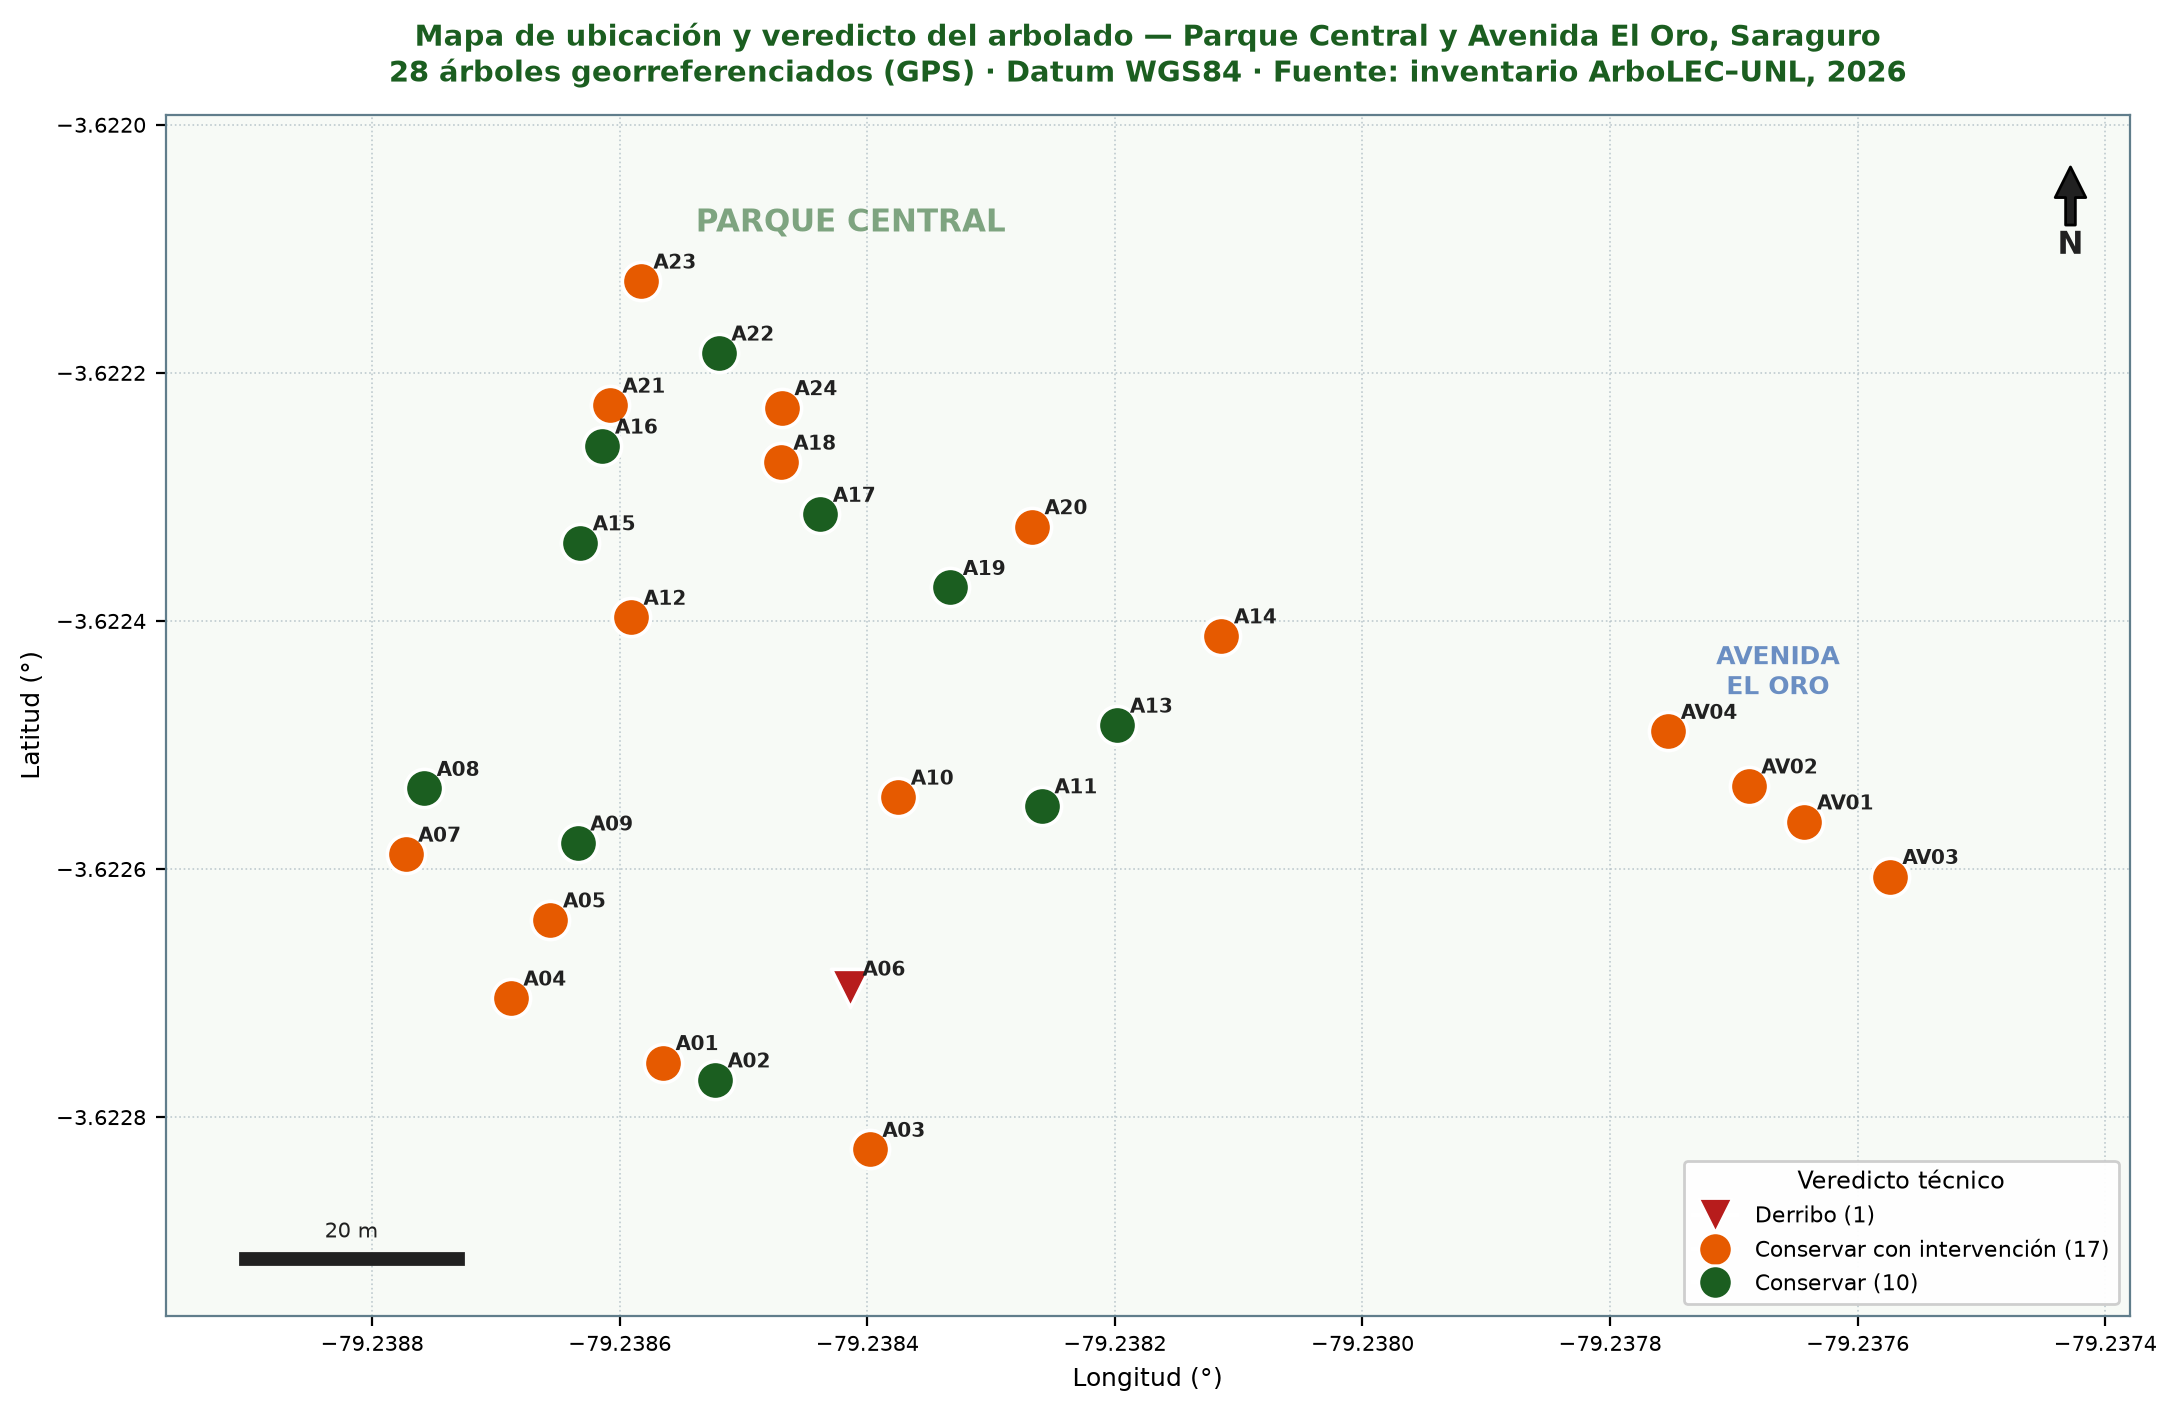
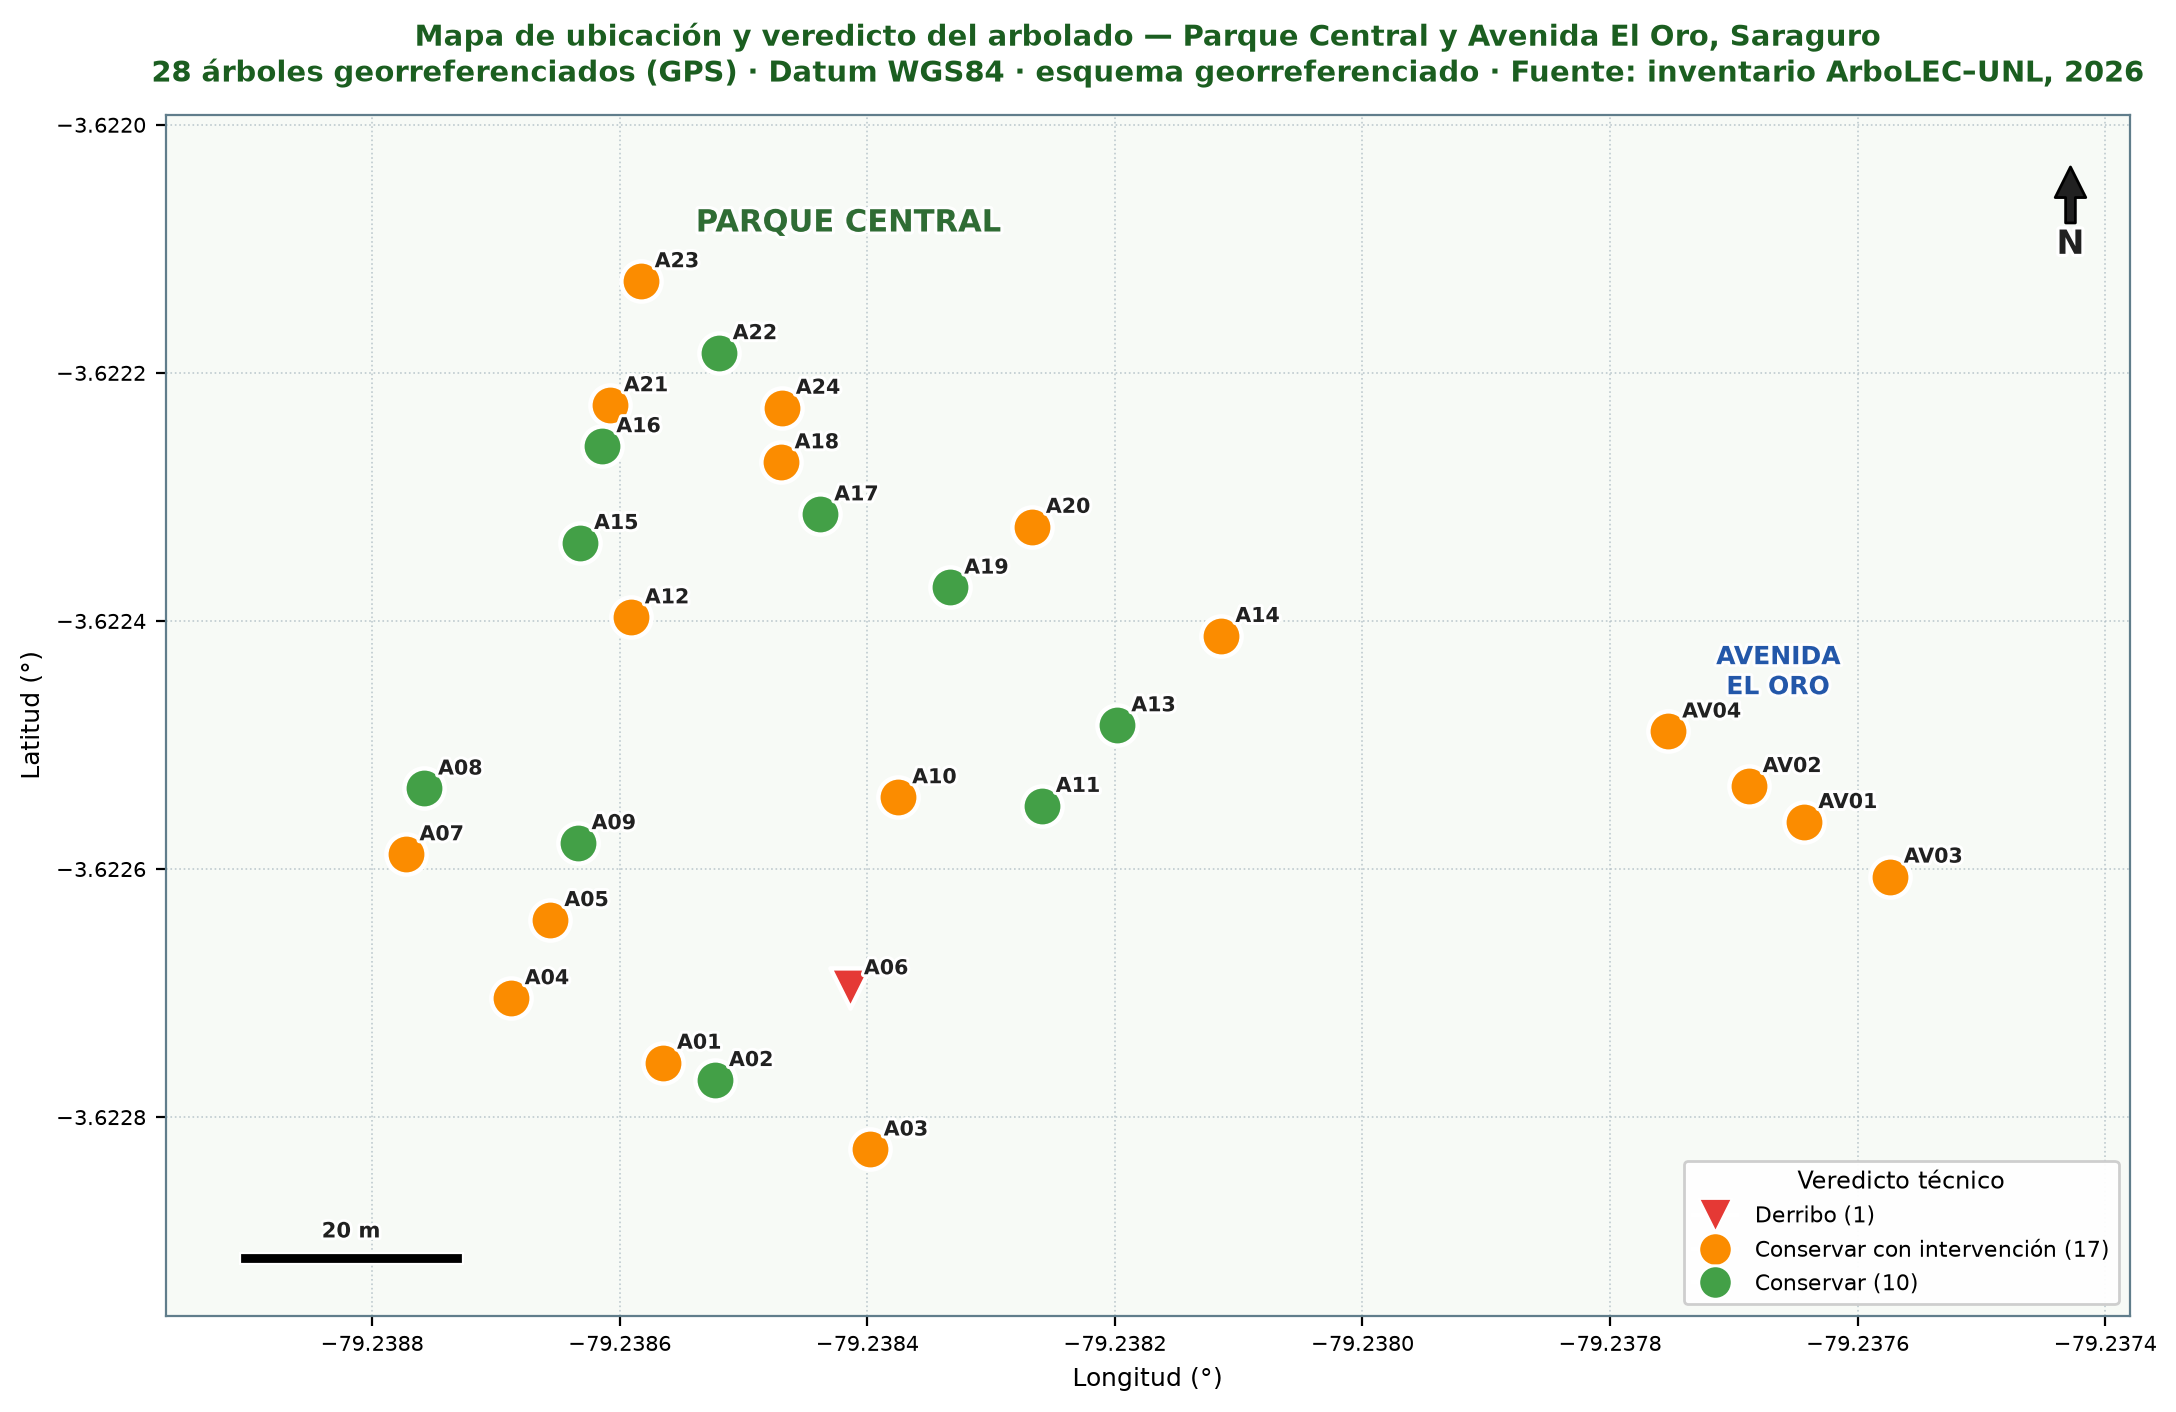
Mapa: soporte para ortofoto/imagen aérea de fondo georreferenciada
- generar_mapa.py detecta assets/ortofoto.* y la coloca de fondo con extent WGS84
- Etiquetas con halo y escala/norte legibles sobre imagen aérea
- Bounds opcionales via assets/ortofoto_bounds.txt; imprime el recuadro a cubrir

Claude-Session: https://claude.ai/code/session_01442Fz9ZmmTFnvPw1BsonXT

diff --git a/Estudio_Arbolado_Parque_Central_Saraguro/scripts/generar_mapa.py b/Estudio_Arbolado_Parque_Central_Saraguro/scripts/generar_mapa.py
@@ -1,88 +1,102 @@
 # -*- coding: utf-8 -*-
-"""Mapa profesional de ubicación de todos los árboles (Parque + Avenida)."""
+"""Mapa profesional de ubicación de todos los árboles (Parque + Avenida).
+Si existe assets/ortofoto.* se usa como imagen aérea de fondo (georreferenciada)."""
 import math
 import matplotlib
 matplotlib.use("Agg")
 import matplotlib.pyplot as plt
-from matplotlib.patches import FancyArrow, Rectangle
+import matplotlib.image as mpimg
+from matplotlib.patches import Rectangle
 from matplotlib.lines import Line2D
+from matplotlib.patheffects import withStroke
 import _data as D
 
-COL = {"DERRIBO":"#B71C1C", "CONSERVAR-INT":"#E65A00", "CONSERVAR":"#1B5E20"}
+COL = {"DERRIBO":"#E53935", "CONSERVAR-INT":"#FB8C00", "CONSERVAR":"#43A047"}
+HAS_IMG = D.ORTOFOTO is not None
 
 pts = [t for t in D.trees if t["lat"] and t["lon"]]
 lats = [float(t["lat"]) for t in pts]; lons = [float(t["lon"]) for t in pts]
 mlat = sum(lats)/len(lats)
 aspect = 1/math.cos(math.radians(mlat))
+dx = max(lons)-min(lons); dy = max(lats)-min(lats)
+padx = dx*0.12+0.00005; pady = dy*0.12+0.00005
+xmin, xmax = min(lons)-padx, max(lons)+padx
+ymin, ymax = min(lats)-pady, max(lats)+pady
 
 fig, ax = plt.subplots(figsize=(11, 8.5), dpi=200)
 fig.patch.set_facecolor("white")
-ax.set_facecolor("#F7FAF6")
+ax.set_xlim(xmin, xmax); ax.set_ylim(ymin, ymax); ax.set_aspect(aspect)
 
-# puntos por categoría
+# ---- fondo: ortofoto o color plano ----
+if HAS_IMG:
+    img = mpimg.imread(D.ORTOFOTO)
+    ext = D.ORTOFOTO_BOUNDS if D.ORTOFOTO_BOUNDS else [xmin, ymin, xmax, ymax]
+    # ext viene como [min_lon,min_lat,max_lon,max_lat] -> extent=[left,right,bottom,top]
+    extent = [ext[0], ext[2], ext[1], ext[3]]
+    ax.imshow(img, extent=extent, origin="upper", zorder=0, aspect=aspect, interpolation="lanczos")
+    grid_col = "#FFFFFF"; grid_alpha = 0.35; halo = "black"; txt_col = "white"
+else:
+    ax.set_facecolor("#F7FAF6")
+    grid_col = "#B0BEC5"; grid_alpha = 0.8; halo = "white"; txt_col = "#212121"
+
+# ---- puntos ----
 for cat in ["CONSERVAR","CONSERVAR-INT","DERRIBO"]:
     xs = [float(t["lon"]) for t in pts if t["cat"]==cat]
     ys = [float(t["lat"]) for t in pts if t["cat"]==cat]
-    ax.scatter(xs, ys, s=190, c=COL[cat], edgecolors="white", linewidths=1.3, zorder=5,
+    ax.scatter(xs, ys, s=210, c=COL[cat], edgecolors="white", linewidths=1.6, zorder=5,
                marker=("v" if cat=="DERRIBO" else "o"))
-
-# etiquetas
+# ---- etiquetas con halo ----
 for t in pts:
-    ax.annotate(t["id"], (float(t["lon"]), float(t["lat"])),
-                xytext=(4.5, 4.5), textcoords="offset points",
-                fontsize=7.2, fontweight="bold", color="#212121", zorder=6)
+    ax.annotate(t["id"], (float(t["lon"]), float(t["lat"])), xytext=(5,5),
+                textcoords="offset points", fontsize=7.4, fontweight="bold", color=txt_col,
+                zorder=6, path_effects=[withStroke(linewidth=2.2, foreground=halo)])
 
-# separacion visual Parque / Avenida (anotaciones de zona)
-ax.annotate("PARQUE CENTRAL", (min(lons)+ (max(lons)-min(lons))*0.30, max(lats)+0.00004),
-            fontsize=11, fontweight="bold", color="#1B5E20", alpha=0.55, ha="center")
+# ---- rótulos de zona ----
+ax.annotate("PARQUE CENTRAL", (min(lons)+(max(lons)-min(lons))*0.30, max(lats)+0.00004),
+            fontsize=11, fontweight="bold", color=("white" if HAS_IMG else "#1B5E20"),
+            alpha=0.9, ha="center", path_effects=[withStroke(linewidth=2.4, foreground=("black" if HAS_IMG else "white"))])
 av = [t for t in pts if t["src"]=="AV"]
 if av:
-    axc = sum(float(t["lon"]) for t in av)/len(av)
-    ayc = max(float(t["lat"]) for t in av)+0.00003
+    axc = sum(float(t["lon"]) for t in av)/len(av); ayc = max(float(t["lat"]) for t in av)+0.00003
     ax.annotate("AVENIDA\nEL ORO", (axc, ayc), fontsize=9, fontweight="bold",
-                color="#0D47A1", alpha=0.6, ha="center")
+                color=("white" if HAS_IMG else "#0D47A1"), alpha=0.9, ha="center",
+                path_effects=[withStroke(linewidth=2.2, foreground=("black" if HAS_IMG else "white"))])
 
-# rejilla y ejes
-ax.grid(True, linestyle=":", linewidth=0.6, color="#B0BEC5", alpha=0.8, zorder=0)
+# ---- rejilla y ejes ----
+ax.grid(True, linestyle=":", linewidth=0.6, color=grid_col, alpha=grid_alpha, zorder=1)
 ax.set_xlabel("Longitud (°)", fontsize=9); ax.set_ylabel("Latitud (°)", fontsize=9)
-ax.tick_params(labelsize=7.5)
-ax.ticklabel_format(useOffset=False, style="plain")
+ax.tick_params(labelsize=7.5); ax.ticklabel_format(useOffset=False, style="plain")
 for s in ax.spines.values(): s.set_color("#607D8B")
 
-# margenes
-dx = (max(lons)-min(lons)); dy = (max(lats)-min(lats))
-padx = dx*0.12+0.00005; pady = dy*0.12+0.00005
-ax.set_xlim(min(lons)-padx, max(lons)+padx)
-ax.set_ylim(min(lats)-pady, max(lats)+pady)
-ax.set_aspect(aspect)
+# ---- barra de escala (20 m) ----
+m_per_deg_lon = 111320*math.cos(math.radians(mlat)); seg = 20.0/m_per_deg_lon
+x0 = xmin + dx*0.05; y0 = ymin + dy*0.06
+ax.add_patch(Rectangle((x0, y0), seg, dy*0.012, color="black", zorder=7,
+                       ec="white", lw=0.8))
+ax.text(x0+seg/2, y0+dy*0.03, "20 m", fontsize=7.6, ha="center", color=txt_col, fontweight="bold",
+        path_effects=[withStroke(linewidth=2, foreground=halo)])
 
-# barra de escala (20 m)
-m_per_deg_lon = 111320*math.cos(math.radians(mlat))
-seg = 20.0/m_per_deg_lon
-x0 = min(lons)-padx + dx*0.05; y0 = min(lats)-pady + dy*0.06
-ax.add_patch(Rectangle((x0, y0), seg, dy*0.012, color="#212121", zorder=7))
-ax.text(x0+seg/2, y0+dy*0.03, "20 m", fontsize=7.5, ha="center", color="#212121")
-
-# flecha norte
-nx = max(lons)+padx - dx*0.04; ny = max(lats)+pady - dy*0.16
+# ---- flecha norte ----
+nx = xmax - dx*0.04; ny = ymax - dy*0.16
 ax.annotate("N", xy=(nx, ny+dy*0.10), xytext=(nx, ny),
-            arrowprops=dict(facecolor="#212121", width=3.5, headwidth=11, headlength=11),
-            ha="center", fontsize=11, fontweight="bold", color="#212121", zorder=8)
+            arrowprops=dict(facecolor="white" if HAS_IMG else "#212121", edgecolor="black", width=3.5, headwidth=11, headlength=11),
+            ha="center", fontsize=12, fontweight="bold", color=txt_col, zorder=8,
+            path_effects=[withStroke(linewidth=2.4, foreground=halo)])
 
-# leyenda
-leg = [Line2D([0],[0], marker="v", color="w", markerfacecolor=COL["DERRIBO"], markeredgecolor="white",
-              markersize=12, label="Derribo (1)"),
-       Line2D([0],[0], marker="o", color="w", markerfacecolor=COL["CONSERVAR-INT"], markeredgecolor="white",
-              markersize=12, label="Conservar con intervención (%d)"%D.n_int),
-       Line2D([0],[0], marker="o", color="w", markerfacecolor=COL["CONSERVAR"], markeredgecolor="white",
-              markersize=12, label="Conservar (%d)"%D.n_cons)]
-ax.legend(handles=leg, loc="lower right", fontsize=8, framealpha=0.95, title="Veredicto técnico",
-          title_fontsize=8.5)
+# ---- leyenda ----
+leg = [Line2D([0],[0], marker="v", color="w", markerfacecolor=COL["DERRIBO"], markeredgecolor="white", markersize=12, label="Derribo (1)"),
+       Line2D([0],[0], marker="o", color="w", markerfacecolor=COL["CONSERVAR-INT"], markeredgecolor="white", markersize=12, label="Conservar con intervención (%d)"%D.n_int),
+       Line2D([0],[0], marker="o", color="w", markerfacecolor=COL["CONSERVAR"], markeredgecolor="white", markersize=12, label="Conservar (%d)"%D.n_cons)]
+ax.legend(handles=leg, loc="lower right", fontsize=8, framealpha=0.95, title="Veredicto técnico", title_fontsize=8.5)
 
+sub = "sobre ortofoto (imagen aérea)" if HAS_IMG else "esquema georreferenciado"
 ax.set_title("Mapa de ubicación y veredicto del arbolado — Parque Central y Avenida El Oro, Saraguro\n"
-             "%d árboles georreferenciados (GPS) · Datum WGS84 · Fuente: inventario ArboLEC–UNL, 2026" % len(pts),
+             "%d árboles georreferenciados (GPS) · Datum WGS84 · %s · Fuente: inventario ArboLEC–UNL, 2026" % (len(pts), sub),
              fontsize=10.5, fontweight="bold", color="#1B5E20", pad=12)
 
 plt.tight_layout()
 plt.savefig(D.MAPA, dpi=200, bbox_inches="tight", facecolor="white")
-print("Mapa generado:", D.MAPA)
+print("Mapa generado:", D.MAPA, "| ortofoto de fondo:", "SÍ" if HAS_IMG else "NO")
+print("Recuadro (WGS84) que debe cubrir la imagen aérea para calzar con los árboles:")
+print("  min_lon=%.6f  min_lat=%.6f  max_lon=%.6f  max_lat=%.6f" % (xmin, ymin, xmax, ymax))
+print("  (esquina SO: %.6f, %.6f)  (esquina NE: %.6f, %.6f)" % (ymin, xmin, ymax, xmax))

diff --git a/Estudio_Arbolado_Parque_Central_Saraguro/scripts/_data.py b/Estudio_Arbolado_Parque_Central_Saraguro/scripts/_data.py
@@ -1,9 +1,23 @@
 # -*- coding: utf-8 -*-
 """Módulo de datos compartido: carga el inventario del Parque y de la Avenida,
 asigna veredictos, URLs y estadísticos. Usado por los generadores docx y pdf."""
-import os, openpyxl
+import os, glob, openpyxl
 
 ASSETS = os.path.join(os.path.dirname(__file__), "..", "assets")
+# Ortofoto / imagen aérea de fondo (opcional). Coloca el archivo como
+# assets/ortofoto.jpg (o .png) y, si conoces las esquinas, assets/ortofoto_bounds.txt
+# con: min_lon,min_lat,max_lon,max_lat  (WGS84). Si no hay bounds, se usa el recuadro
+# calculado a partir de las coordenadas de los árboles.
+_orto = sorted(glob.glob(os.path.join(ASSETS, "ortofoto.*")))
+_orto = [f for f in _orto if not f.endswith(".txt")]
+ORTOFOTO = _orto[0] if _orto else None
+_bounds_file = os.path.join(ASSETS, "ortofoto_bounds.txt")
+ORTOFOTO_BOUNDS = None
+if os.path.exists(_bounds_file):
+    with open(_bounds_file) as fh:
+        vals = [float(x) for x in fh.read().replace("\n", ",").split(",") if x.strip()]
+        if len(vals) == 4:
+            ORTOFOTO_BOUNDS = vals  # min_lon,min_lat,max_lon,max_lat
 XLSX_PARQUE = os.path.join(ASSETS, "Reporte_Arboles_Parque.xlsx")
 XLSX_AV = os.path.join(ASSETS, "Reporte_Arboles_Avenida.xlsx")
 LOGO_UNL = os.path.join(ASSETS, "LOGO_UNL.png")
